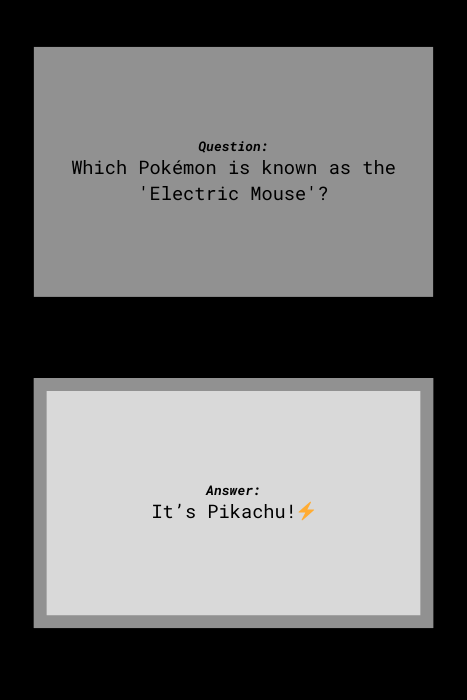
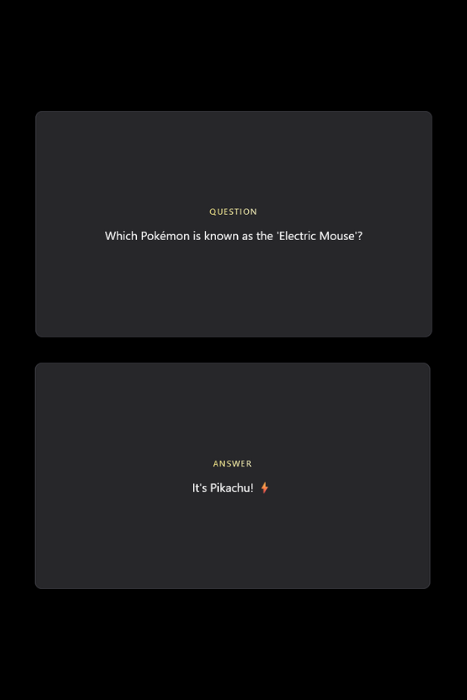
Made small fixes

diff --git a/frontend/src/pages/StudyPage.jsx b/frontend/src/pages/StudyPage.jsx
@@ -95,7 +95,7 @@ const StudyPage = () => {
   ).length;
 
   return (
-    <div className="flex h-[calc(100vh-10rem)] flex-col bg-black px-6 py-8 text-white">
+    <div className="min-h-(100vh-10rem)] flex flex-col bg-black px-6 py-8 text-white">
       {/* Header */}
       <div className="mb-8 flex items-center justify-between">
         <button
@@ -159,22 +159,26 @@ const StudyPage = () => {
             style={{ transform: isFlipped ? 'rotateY(180deg)' : '' }}
           >
             {/* Front face */}
-            <div className="backface-hidden absolute inset-0 flex flex-col items-center justify-center rounded-xl border border-zinc-700 bg-zinc-800 p-8">
+            <div className="backface-hidden absolute inset-0 flex flex-col items-center justify-center rounded-xl border border-zinc-700 bg-zinc-800 p-8 text-center">
               <span className="mb-4 inline-block bg-gradient-to-r from-yellow-200 to-yellow-100 bg-clip-text text-sm font-semibold uppercase tracking-widest text-transparent">
                 Question
               </span>
-              <p className="text-xl font-medium">{currentCard.front}</p>
+              <p className="max-w-full overflow-y-auto break-words text-center text-xl font-medium">
+                {currentCard.front}
+              </p>
             </div>
 
             {/* Back face */}
             <div
-              className="backface-hidden absolute inset-0 flex flex-col items-center justify-center rounded-xl border border-zinc-700 bg-zinc-800 p-8"
+              className="backface-hidden absolute inset-0 flex flex-col items-center justify-center rounded-xl border border-zinc-700 bg-zinc-800 p-8 text-center"
               style={{ transform: 'rotateY(180deg)' }}
             >
               <span className="mb-4 inline-block bg-gradient-to-r from-yellow-200 to-yellow-100 bg-clip-text text-sm font-semibold uppercase tracking-widest text-transparent">
                 Answer
               </span>
-              <p className="text-xl font-medium">{currentCard.back}</p>
+              <p className="max-w-full overflow-y-auto break-words text-center text-xl font-medium">
+                {currentCard.back}
+              </p>
             </div>
           </div>
         </div>

diff --git a/frontend/src/pages/FullDeckPage.jsx b/frontend/src/pages/FullDeckPage.jsx
@@ -134,9 +134,9 @@ const FullDeck = () => {
   }
 
   return (
-    <div className="flex h-[calc(100vh-10rem)] flex-col bg-black px-6 py-8 text-white lg:px-8">
+    <div className="flex min-h-[calc(100vh-8rem)] flex-col bg-black px-6 py-8 text-white lg:px-8">
       {/* Fixed Header Section */}
-      <div className="flex w-full flex-col items-center">
+      <div className="mb-8 flex w-full flex-col items-center">
         <button
           className="justify-start-start mt-0 flex w-full"
           onClick={() => navigate('/dashboard')}
@@ -230,7 +230,7 @@ const FullDeck = () => {
       </div>
 
       {/* Scrollable Flashcards Grid Container */}
-      <div className="flex-1 overflow-y-auto">
+      <div className="h-[calc(100vh-24rem)] flex-1 overflow-y-auto">
         <div className="grid grid-cols-1 gap-8 p-4 sm:grid-cols-2 lg:grid-cols-3 xl:grid-cols-4">
           {flashcards.map((card, index) => (
             <div
@@ -244,7 +244,7 @@ const FullDeck = () => {
                     <span className="inline-block bg-gradient-to-r from-yellow-200 to-yellow-100 bg-clip-text text-sm font-semibold uppercase tracking-widest text-transparent">
                       Question
                     </span>
-                    <p className="mt-2 max-h-24 overflow-y-auto text-lg font-bold tracking-wide text-zinc-100">
+                    <p className="mt-2 line-clamp-2 max-h-24 text-lg font-bold tracking-wide text-zinc-100">
                       {card.front}
                     </p>
                   </div>
@@ -252,7 +252,7 @@ const FullDeck = () => {
                     <span className="inline-block bg-gradient-to-r from-yellow-200 to-yellow-100 bg-clip-text text-sm font-semibold uppercase tracking-widest text-transparent">
                       Answer
                     </span>
-                    <p className="mt-2 max-h-24 overflow-y-auto text-base font-medium leading-relaxed text-zinc-200">
+                    <p className="mt-2 line-clamp-2 text-base font-medium leading-relaxed text-zinc-200">
                       {card.back}
                     </p>
                   </div>

diff --git a/frontend/src/components/MainNavigation.jsx b/frontend/src/components/MainNavigation.jsx
@@ -17,7 +17,7 @@ const MainNavigation = () => {
 
   return (
     <div>
-      <header className="fixed flex w-full items-center justify-between border-b-2 border-zinc-900 bg-black px-8 py-0 text-white md:px-32">
+      <header className="fixed z-50 flex w-full items-center justify-between border-b-2 border-zinc-900 bg-black px-8 py-0 text-white md:px-32">
         <button>
           <img
             src={logo}
@@ -103,7 +103,7 @@ const MainNavigation = () => {
         </IconButton>
 
         <div
-          className={`absolute left-0 top-44 flex w-full flex-col items-center gap-6 border-b-2 border-zinc-900 bg-black pb-6 text-lg font-semibold transition-transform xl:hidden ${isMenuOpen ? 'opacity-100' : 'opacity-0'}`}
+          className={`absolute left-0 top-44 z-50 flex w-full flex-col items-center gap-6 border-b-2 border-zinc-900 bg-black pb-6 text-lg font-semibold transition-transform xl:hidden ${isMenuOpen ? 'opacity-100' : 'opacity-0'}`}
           style={{ transition: 'transform 0.3s ease, opacity 0.3 ease' }}
         >
           {user ? (

diff --git a/frontend/src/pages/AuthPage.jsx b/frontend/src/pages/AuthPage.jsx
@@ -34,7 +34,7 @@ const AuthPage = () => {
 
   return (
     <>
-      <div className="flex h-[calc(100vh-10rem)] flex-1 flex-col bg-black px-6 py-8 text-white lg:px-8">
+      <div className="flex min-h-[calc(100vh-10rem)] flex-1 flex-col bg-black px-6 py-8 text-white lg:px-8">
         <button
           className="justify-start-start mt-0 flex w-full"
           onClick={() => navigate('/')}
@@ -111,14 +111,6 @@ const AuthPage = () => {
                 >
                   Password
                 </label>
-                <div className="text-sm">
-                  <a
-                    href="#"
-                    className="font-semibold text-yellow-200 hover:text-yellow-400"
-                  >
-                    Forgot password?
-                  </a>
-                </div>
               </div>
               <div className="mt-2">
                 <input

diff --git a/frontend/src/components/DeckPreview.jsx b/frontend/src/components/DeckPreview.jsx
@@ -30,7 +30,8 @@ const DeckPreview = ({ deck, onViewDeck, onEditDeck }) => {
               ))}
               {flashcards.length > 3 && (
                 <p className="mt-2 text-sm text-yellow-200/80">
-                  + {flashcards.length - 3} more flashcards
+                  + {flashcards.length - 3} more flashcard
+                  {flashcards.length > 4 && 's'}
                 </p>
               )}
             </div>
@@ -41,7 +42,7 @@ const DeckPreview = ({ deck, onViewDeck, onEditDeck }) => {
       </div>
 
       {/* Footer Section - Fixed Position */}
-      <div className="mt-auto flex justify-between">
+      <div className="mt-4 flex justify-between">
         <button
           onClick={() => onViewDeck(deck.id)}
           className="w-full rounded bg-yellow-200 px-4 py-2 text-zinc-900 transition hover:bg-yellow-300"

diff --git a/frontend/src/pages/LandingPage.jsx b/frontend/src/pages/LandingPage.jsx
@@ -12,9 +12,9 @@ function LandingPage() {
   }, []);
 
   return (
-    <div className="min-h-screen bg-black">
+    <div className="min-h-[calc(100vh-10rem)] bg-black">
       <header className="p-8 text-white">
-        <div className="mt-10 grid min-h-screen w-full place-items-stretch bg-contain bg-center bg-no-repeat md:h-auto lg:h-auto">
+        <div className="mt-10 grid min-h-[calc(100vh-10rem)] w-full place-items-stretch bg-contain bg-center bg-no-repeat md:h-auto lg:h-auto">
           <div className="container mx-auto px-4 text-center">
             <Typography
               variant="h1"

diff --git a/frontend/src/pages/NotFoundPage.jsx b/frontend/src/pages/NotFoundPage.jsx
@@ -8,7 +8,7 @@ const NotFoundPage = () => {
   const { user } = useContext(AuthContext);
 
   return (
-    <div className="flex h-[calc(100vh-10rem)] flex-col items-center justify-center bg-black px-6 py-12 text-white">
+    <div className="flex min-h-[calc(100vh-10rem)] flex-col items-center justify-center bg-black px-6 py-12 text-white">
       <h1 className="mb-8 text-6xl font-bold text-yellow-200">404</h1>
       <p className="mb-12 text-xl">Oops! This page doesn't exist.</p>
       <button

diff --git a/frontend/src/pages/DashboardPage.jsx b/frontend/src/pages/DashboardPage.jsx
@@ -88,7 +88,7 @@ const DashboardPage = () => {
   }
 
   return (
-    <div className="flex h-[calc(100vh-10rem)] flex-col bg-black px-6 py-12 text-white lg:px-8">
+    <div className="flex min-h-[calc(100vh-10rem)] flex-col bg-black px-6 py-12 text-white lg:px-8">
       <div className="mx-auto w-full max-w-[90rem]">
         <Typography
           variant="h1"

diff --git a/backend/src/server.js b/backend/src/server.js
@@ -3,7 +3,7 @@ const app = require('./app');
 const { PORT } = process.env; // Use an environment variable for the port
 
 // Set the default port if not defined in the environment
-const port = PORT || 5000;
+const port = PORT || 3000;
 
 // Start the Express server
 app.listen(port, () => {

diff --git a/frontend/vite.config.js b/frontend/vite.config.js
@@ -5,4 +5,14 @@ import path from 'path';
 // https://vite.dev/config/
 export default defineConfig({
   plugins: [react()],
+  server: {
+    historyApiFallback: true,
+  },
+  build: {
+    rollupOptions: {
+      output: {
+        manualChunks: undefined,
+      },
+    },
+  },
 });

diff --git a/frontend/src/pages/RootLayout.jsx b/frontend/src/pages/RootLayout.jsx
@@ -19,7 +19,7 @@ const RootLayout = () => {
         pauseOnHover
         theme="dark"
       />
-      <main className="pt-40">
+      <main className="relative pt-32 md:pt-40">
         <Outlet />
       </main>
     </>

diff --git a/frontend/src/index.css b/frontend/src/index.css
@@ -2,6 +2,10 @@
 @tailwind components;
 @tailwind utilities;
 
+body {
+  @apply min-h-screen bg-black;
+}
+
 .preserve-3d {
   transform-style: preserve-3d;
 }
